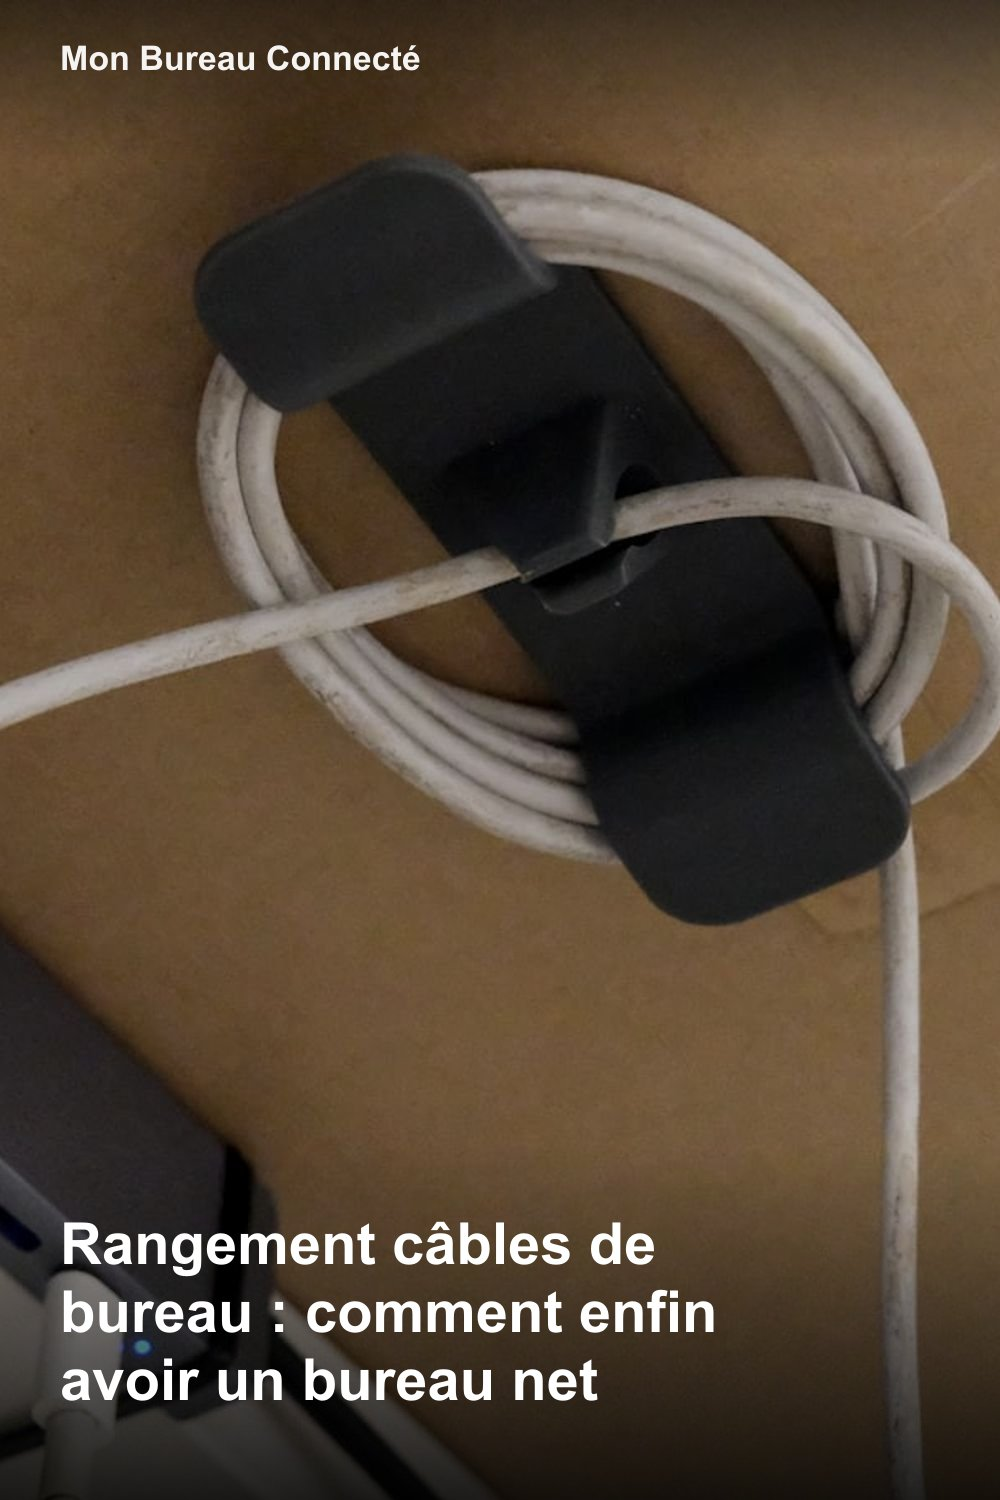
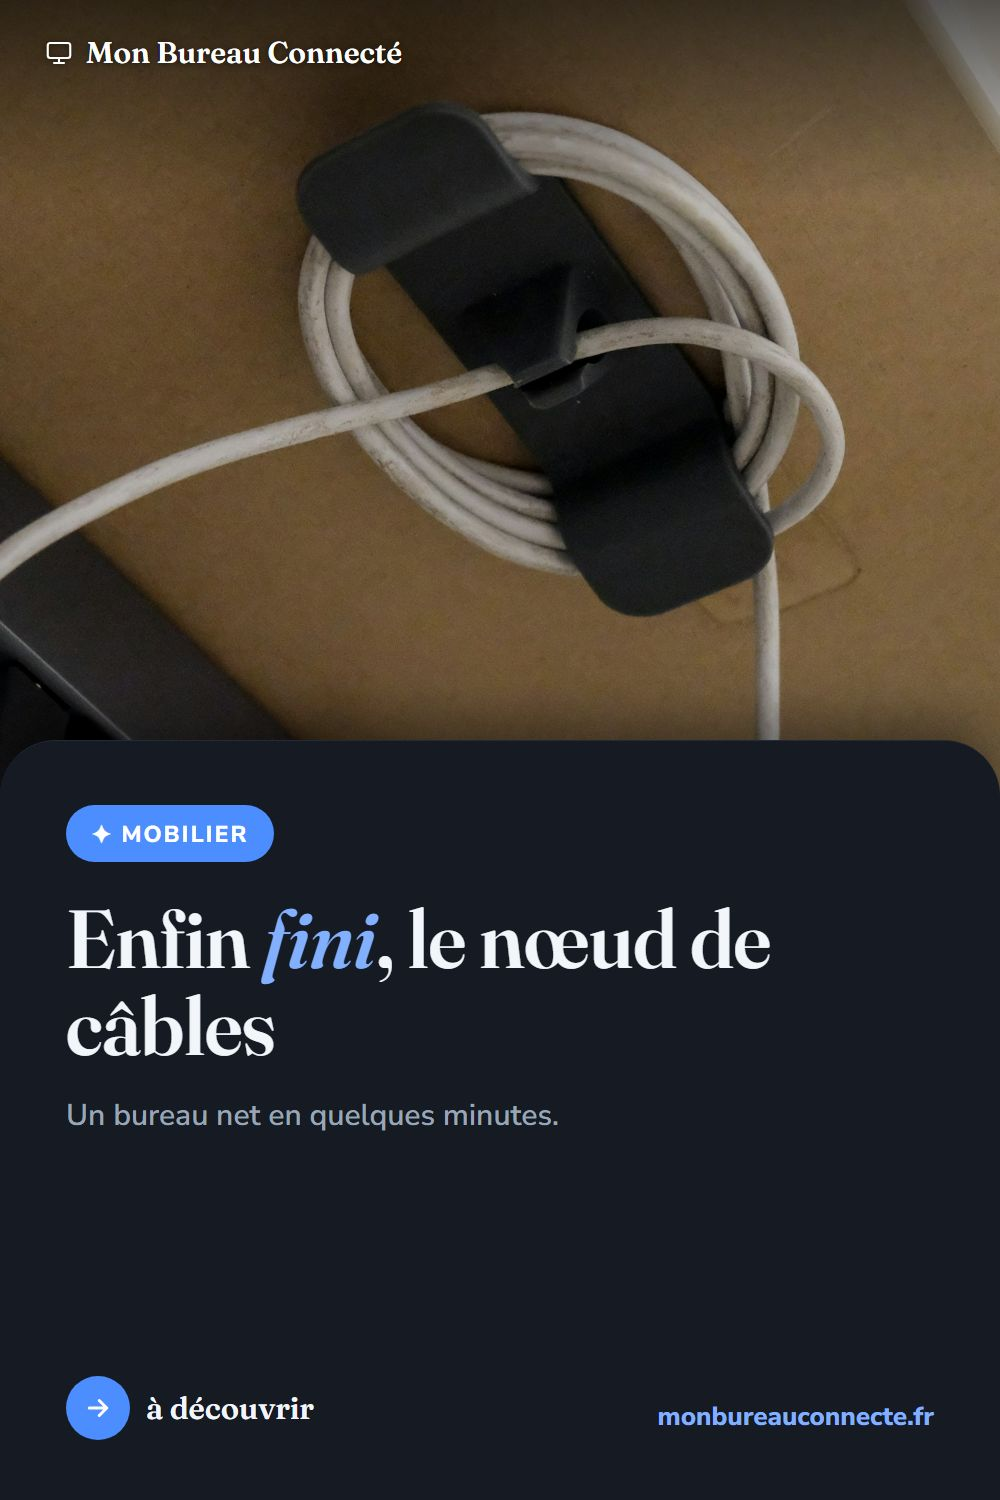
Epingles Pinterest redesignees (accroche + carte + branding) + accroches pinHook + couvertures locales

diff --git a/src/content/articles/repose-poignet-clavier-souris.md b/src/content/articles/repose-poignet-clavier-souris.md
@@ -3,6 +3,8 @@ title: "Repose-poignet clavier et souris : lequel choisir en 2026 ?"
 description: "Tensions au poignet en tapant ou en cliquant ? Notre guide pour bien choisir un repose-poignet clavier et souris efficace, sans se tromper."
 pubDate: 2026-08-23
 author: "Rédaction"
+pinHook: "Des poignets *sans tension*"
+pinSub: "Le repose-poignet clavier + souris."
 keywords: ["repose-poignet clavier souris", "repose-poignet ergonomique", "repose-poignet gel poignet", "meilleur repose-poignet 2026"]
 category: "peripheriques"
 coverAlt: "Vue de dessus de mains en train de taper sur un ordinateur portable posé sur un bureau en bois, avec tasse de café, lunettes et plante"

diff --git a/src/content/articles/clavier-compact-tkl-sans-pave-numerique.md b/src/content/articles/clavier-compact-tkl-sans-pave-numerique.md
@@ -3,6 +3,8 @@ title: "Clavier compact TKL : gagner de la place pour la souris sur un petit bur
 description: "Le format TKL, sans pavé numérique, libère de l'espace pour la souris. Nos critères pour bien choisir et notre sélection pour le bureau."
 pubDate: 2026-08-24
 author: "Rédaction"
+pinHook: "Plus de place pour *la souris*"
+pinSub: "Le clavier compact TKL, bien choisi."
 keywords: ["clavier TKL", "clavier compact sans pavé numérique", "clavier sans pavé numérique bureau"]
 category: "peripheriques"
 coverAlt: "Bureau épuré dans une lumière tamisée avec un clavier compact rétroéclairé au centre, un grand écran, une souris et des enceintes"

diff --git a/src/content/articles/casque-reduction-bruit-teletravail.md b/src/content/articles/casque-reduction-bruit-teletravail.md
@@ -3,6 +3,8 @@ title: "Casque à réduction de bruit pour le télétravail en 2026"
 description: "Comment choisir un casque à réduction de bruit active pour se concentrer en télétravail ou en open space, et notre sélection de modèles fiables."
 pubDate: 2026-08-14
 author: "Rédaction"
+pinHook: "Le calme, *même en open space*"
+pinSub: "Le casque anti-bruit pour le télétravail."
 keywords: ["casque réduction de bruit télétravail", "casque anc bureau", "meilleur casque antibruit", "meilleur casque antibruit 2026"]
 category: "audio-visio"
 coverImage: "https://images.unsplash.com/photo-1618366712010-f4ae9c647dcb?q=80&w=1600&auto=format&fit=crop"

diff --git a/src/content/articles/tapis-souris-xxl-bureau.md b/src/content/articles/tapis-souris-xxl-bureau.md
@@ -3,6 +3,8 @@ title: "Tapis de souris XXL pour le bureau : lequel choisir pour clavier et sour
 description: "Un tapis XXL unifie clavier et souris sur une seule surface fluide. Nos critères de choix et notre sélection pour un bureau télétravail ou gaming."
 pubDate: 2026-08-18
 author: "Rédaction"
+pinHook: "Clavier *et* souris, une seule surface"
+pinSub: "Le tapis XXL qui habille le bureau."
 keywords: ["tapis de souris XXL", "tapis de souris bureau", "tapis clavier souris étendu"]
 category: "peripheriques"
 coverAlt: "Grand tapis de souris noir sur un bureau, avec une souris filaire posée dessus et un clavier mécanique visible dans le coin"

diff --git a/src/content/articles/trackball-vs-souris-classique-poignet.md b/src/content/articles/trackball-vs-souris-classique-poignet.md
@@ -3,6 +3,8 @@ title: "Trackball vs souris classique en 2026 : lequel choisir pour le poignet ?
 description: "Douleurs au poignet avec une souris classique ? Notre comparatif trackball vs souris pour choisir selon ton usage, sans se tromper d'accessoire."
 pubDate: 2026-08-21
 author: "Rédaction"
+pinHook: "Soulager le poignet, *autrement*"
+pinSub: "Trackball ou souris : le comparatif."
 keywords: ["trackball vs souris", "trackball souris poignet", "meilleur trackball 2026", "trackball ergonomique bureau"]
 category: "peripheriques"
 coverAlt: "Trackball sans fil noir posé sur un bureau, main positionnée sur la boule de contrôle"

diff --git a/src/content/articles/bureau-assis-debout-electrique.md b/src/content/articles/bureau-assis-debout-electrique.md
@@ -3,6 +3,8 @@ title: "Bureau assis-debout électrique en 2026 : lequel choisir ?"
 description: "Comment choisir son bureau assis-debout électrique pour le télétravail : critères essentiels et notre sélection de modèles fiables."
 pubDate: 2026-08-04
 author: "Rédaction"
+pinHook: "Travailler *debout ou assis*, en un geste"
+pinSub: "Le bureau électrique bien choisi."
 keywords: ["bureau assis-debout", "bureau électrique télétravail", "bureau réglable en hauteur", "bureau assis-debout 2026"]
 category: "mobilier"
 coverImage: "https://images.unsplash.com/photo-1622131278701-eb225474ffd2?q=80&w=1600&auto=format&fit=crop"

diff --git a/src/content/articles/souris-ergonomique-verticale.md b/src/content/articles/souris-ergonomique-verticale.md
@@ -3,6 +3,8 @@ title: "Souris ergonomique verticale : notre sélection contre les douleurs au p
 description: "Tendinite, syndrome du canal carpien, douleurs au poignet : notre comparatif des meilleures souris verticales pour un usage bureau et télétravail."
 pubDate: 2026-08-12
 author: "Rédaction"
+pinHook: "Dire adieu *aux douleurs* du poignet"
+pinSub: "La souris verticale, bien choisie."
 keywords: ["souris ergonomique verticale", "souris verticale poignet", "meilleure souris ergonomique"]
 category: "peripheriques"
 coverImage: "https://images.unsplash.com/photo-1596495717655-5a38ee8ad7b2?q=80&w=1600&auto=format&fit=crop"

diff --git a/src/content/articles/support-ordinateur-portable-ergonomique.md b/src/content/articles/support-ordinateur-portable-ergonomique.md
@@ -3,6 +3,8 @@ title: "Support ordinateur portable ergonomique : pourquoi c'est presque indispe
 description: "Travailler sur un ordinateur portable posé à plat fatigue vite la nuque. Nos critères de choix et notre sélection de supports ergonomiques."
 pubDate: 2026-07-30
 author: "Rédaction"
+pinHook: "L'écran *à hauteur des yeux*"
+pinSub: "Le support portable presque indispensable."
 keywords: ["support ordinateur portable ergonomique", "support pc portable bureau", "laptop stand"]
 category: "peripheriques"
 coverImage: "https://images.unsplash.com/photo-1629317480826-910f729d1709?q=80&w=1600&auto=format&fit=crop"

diff --git a/src/content/articles/chaise-bureau-sans-accoudoirs-petit-espace.md b/src/content/articles/chaise-bureau-sans-accoudoirs-petit-espace.md
@@ -3,6 +3,8 @@ title: "Chaise de bureau sans accoudoirs : le bon choix pour un petit espace"
 description: "Pourquoi une chaise sans accoudoirs se glisse mieux sous un bureau bas ou étroit, et comment en choisir une sans sacrifier le confort."
 pubDate: 2026-08-17
 author: "Rédaction"
+pinHook: "La chaise qui *se glisse partout*"
+pinSub: "Sans accoudoirs, pour les petits espaces."
 keywords: ["chaise de bureau sans accoudoirs", "chaise bureau petit espace", "chaise compacte télétravail"]
 category: "mobilier"
 coverAlt: "Chaise de bureau en bois sans accoudoirs installée dans un coin bureau compact sous des combles"

diff --git a/src/content/articles/ring-light-eclairage-visio.md b/src/content/articles/ring-light-eclairage-visio.md
@@ -3,6 +3,8 @@ title: "Ring light pour la visio : gadget de streamer ou vrai plus pro ?"
 description: "Un ring light n'est pas réservé aux vidéastes. Comment il améliore le rendu en visioconférence, et notre sélection de modèles pour le bureau."
 pubDate: 2026-08-08
 author: "Rédaction"
+pinHook: "Être *bien éclairé* en visio"
+pinSub: "Ring light : gadget ou vrai plus ?"
 keywords: ["ring light visioconférence", "eclairage visio bureau", "lampe annulaire télétravail"]
 category: "audio-visio"
 coverImage: "https://images.unsplash.com/photo-1755997268256-31b838ebd238?q=80&w=1600&auto=format&fit=crop"

diff --git a/src/content/articles/claviers-mecaniques-silencieux.md b/src/content/articles/claviers-mecaniques-silencieux.md
@@ -3,6 +3,8 @@ title: "Meilleurs claviers mécaniques silencieux pour l'open space et la visio"
 description: "Notre sélection de claviers mécaniques silencieux, pour taper sans déranger en open space ou pendant une visioconférence."
 pubDate: 2026-08-07
 author: "Rédaction"
+pinHook: "La frappe mécanique, *en silence*"
+pinSub: "Les claviers silencieux pour l'open space."
 keywords: ["clavier mécanique silencieux", "clavier silencieux télétravail", "clavier open space"]
 category: "peripheriques"
 coverImage: "https://images.unsplash.com/photo-1618384887929-16ec33fab9ef?q=80&w=1600&auto=format&fit=crop"

diff --git a/src/content/articles/bras-support-ecran-articule.md b/src/content/articles/bras-support-ecran-articule.md
@@ -3,6 +3,8 @@ title: "Bras support écran articulé : comment bien le choisir pour ton bureau"
 description: "Un bon bras support écran libère de la place et améliore la posture. Nos critères de choix et notre sélection pour un ou deux moniteurs."
 pubDate: 2026-08-15
 author: "Rédaction"
+pinHook: "L'écran *à la bonne hauteur*, enfin"
+pinSub: "Le bras articulé qui libère le bureau."
 keywords: ["bras support écran", "bras moniteur articulé", "support écran pc bureau"]
 category: "mobilier"
 coverImage: "https://images.unsplash.com/photo-1623281185000-6940e5347d2e?q=80&w=1600&auto=format&fit=crop"
